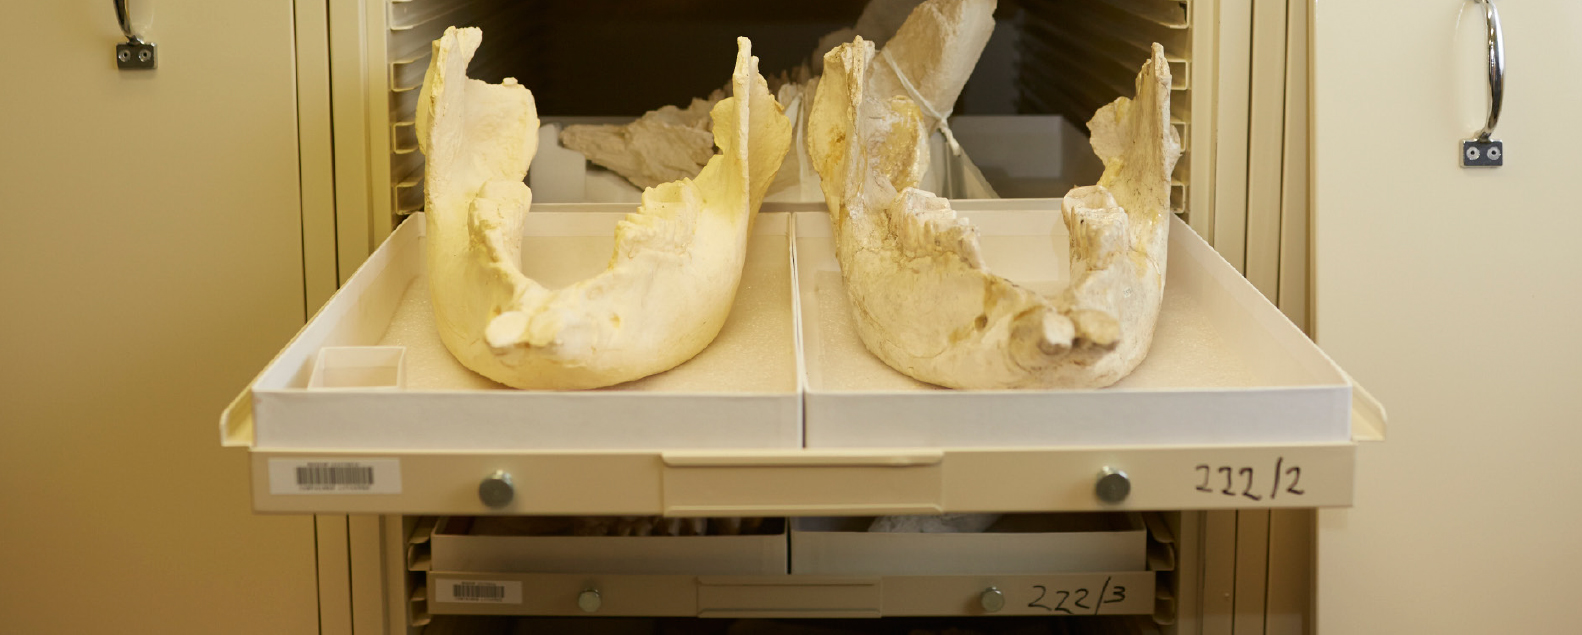
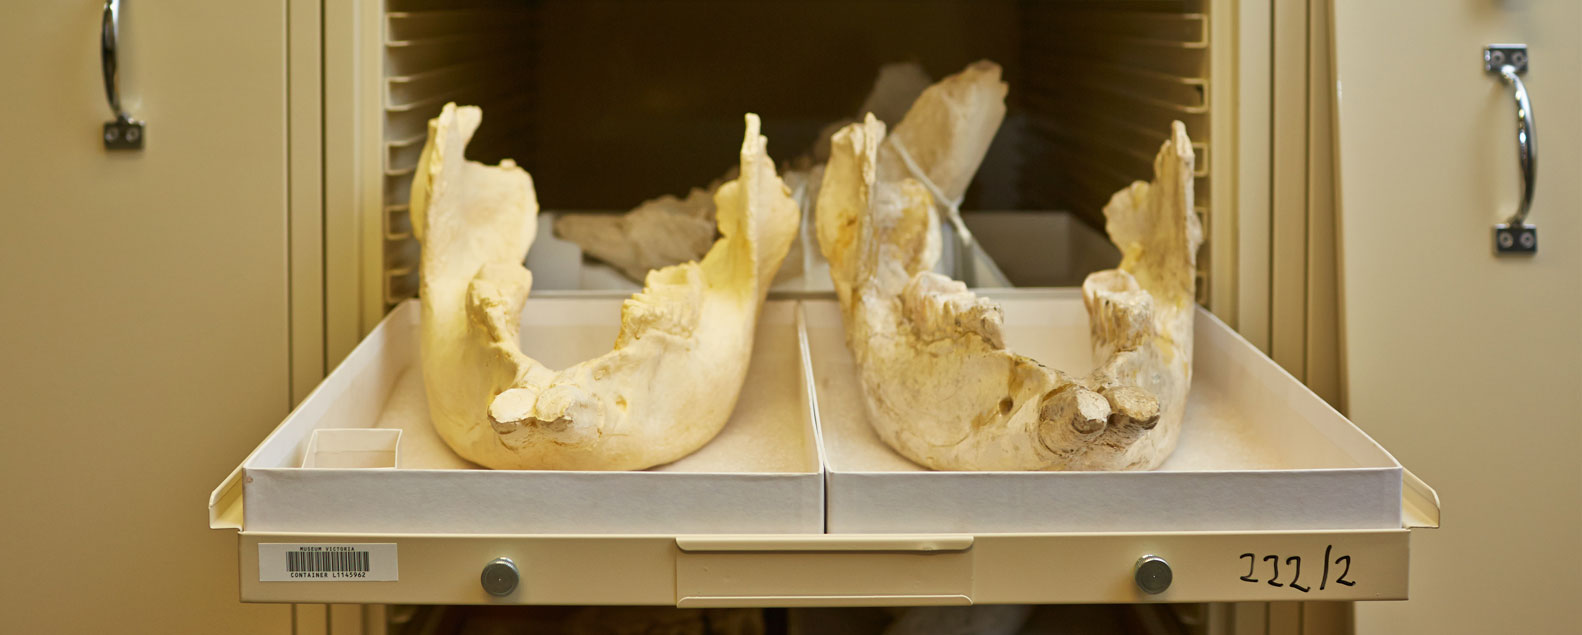
bug fixes
- fixed returned null medias bug in media factory
- fixed null medium image bug in video media factory
- fixed missing ChaRepository_tab in mediaupdate import
- updated home heros to latest images
- fixed bug in media view where single image items had a next arrow
active
- removed image media view

diff --git a/src/CollectionsOnline.Import/Factories/VideoMediaFactory.cs b/src/CollectionsOnline.Import/Factories/VideoMediaFactory.cs
@@ -131,7 +131,7 @@ namespace CollectionsOnline.Import.Factories
                         // Medium preview placeholder
                         imageFactory.Load(destPathMedium);
 
-                        videoMedia.Thumbnail = new ImageMediaFile
+                        videoMedia.Medium = new ImageMediaFile
                         {
                             Uri = PathFactory.MakeUriPath(videoMedia.Irn, ".jpg", FileDerivativeType.Medium),
                             Size = new FileInfo(destPathMedium).Length,

diff --git a/src/CollectionsOnline.Import/Imports/MediaUpdateImport.cs b/src/CollectionsOnline.Import/Imports/MediaUpdateImport.cs
@@ -50,6 +50,7 @@ namespace CollectionsOnline.Import.Imports
                                     "RigCopyrightStatus",
                                     "RigLicence",
                                     "RigLicenceDetails",
+                                    "ChaRepository_tab",
                                     "AdmPublishWebNoPassword",
                                     "AdmDateModified",
                                     "AdmTimeModified"

diff --git a/src/CollectionsOnline.Import/Factories/MediaFactory.cs b/src/CollectionsOnline.Import/Factories/MediaFactory.cs
@@ -174,7 +174,7 @@ namespace CollectionsOnline.Import.Factories
             var distinctMediaMaps = groupedMediaMaps.Select(x => x.First());
 
             // Create medias
-            medias.AddRange(distinctMediaMaps.Select(x => Make(x, thumbnailResizeMode)));
+            medias.AddRange(distinctMediaMaps.Select(x => Make(x, thumbnailResizeMode)).Where(x => x != null));
 
             return medias;
         }
